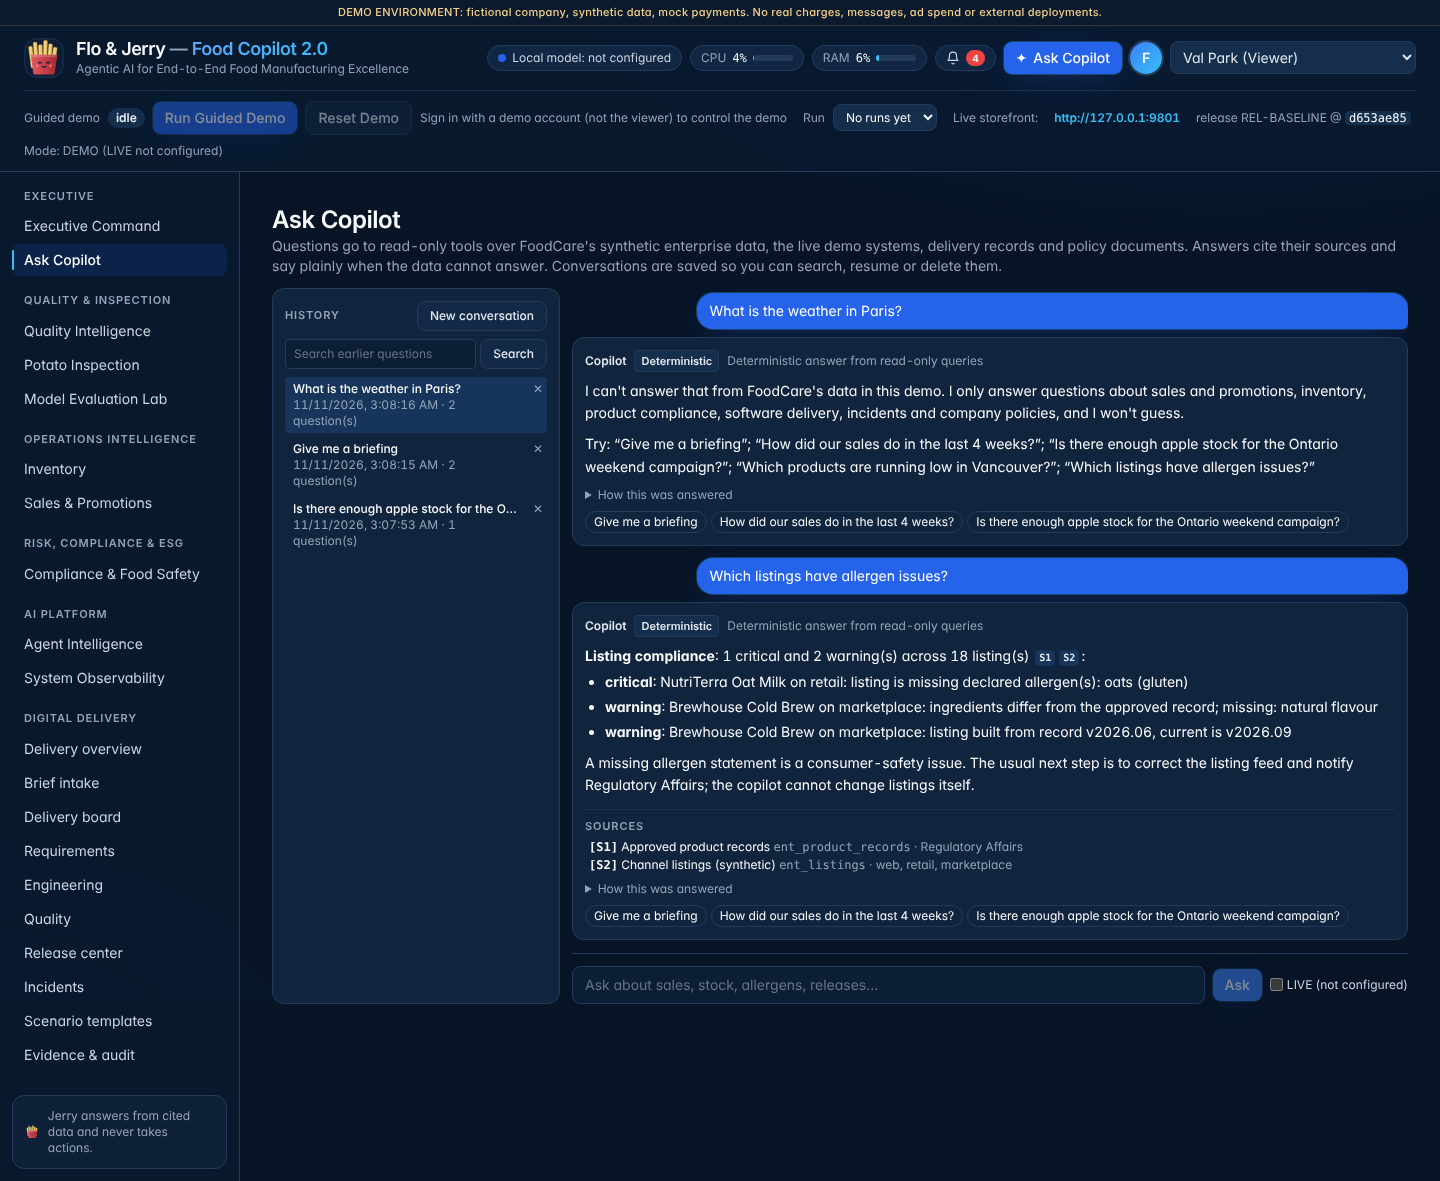
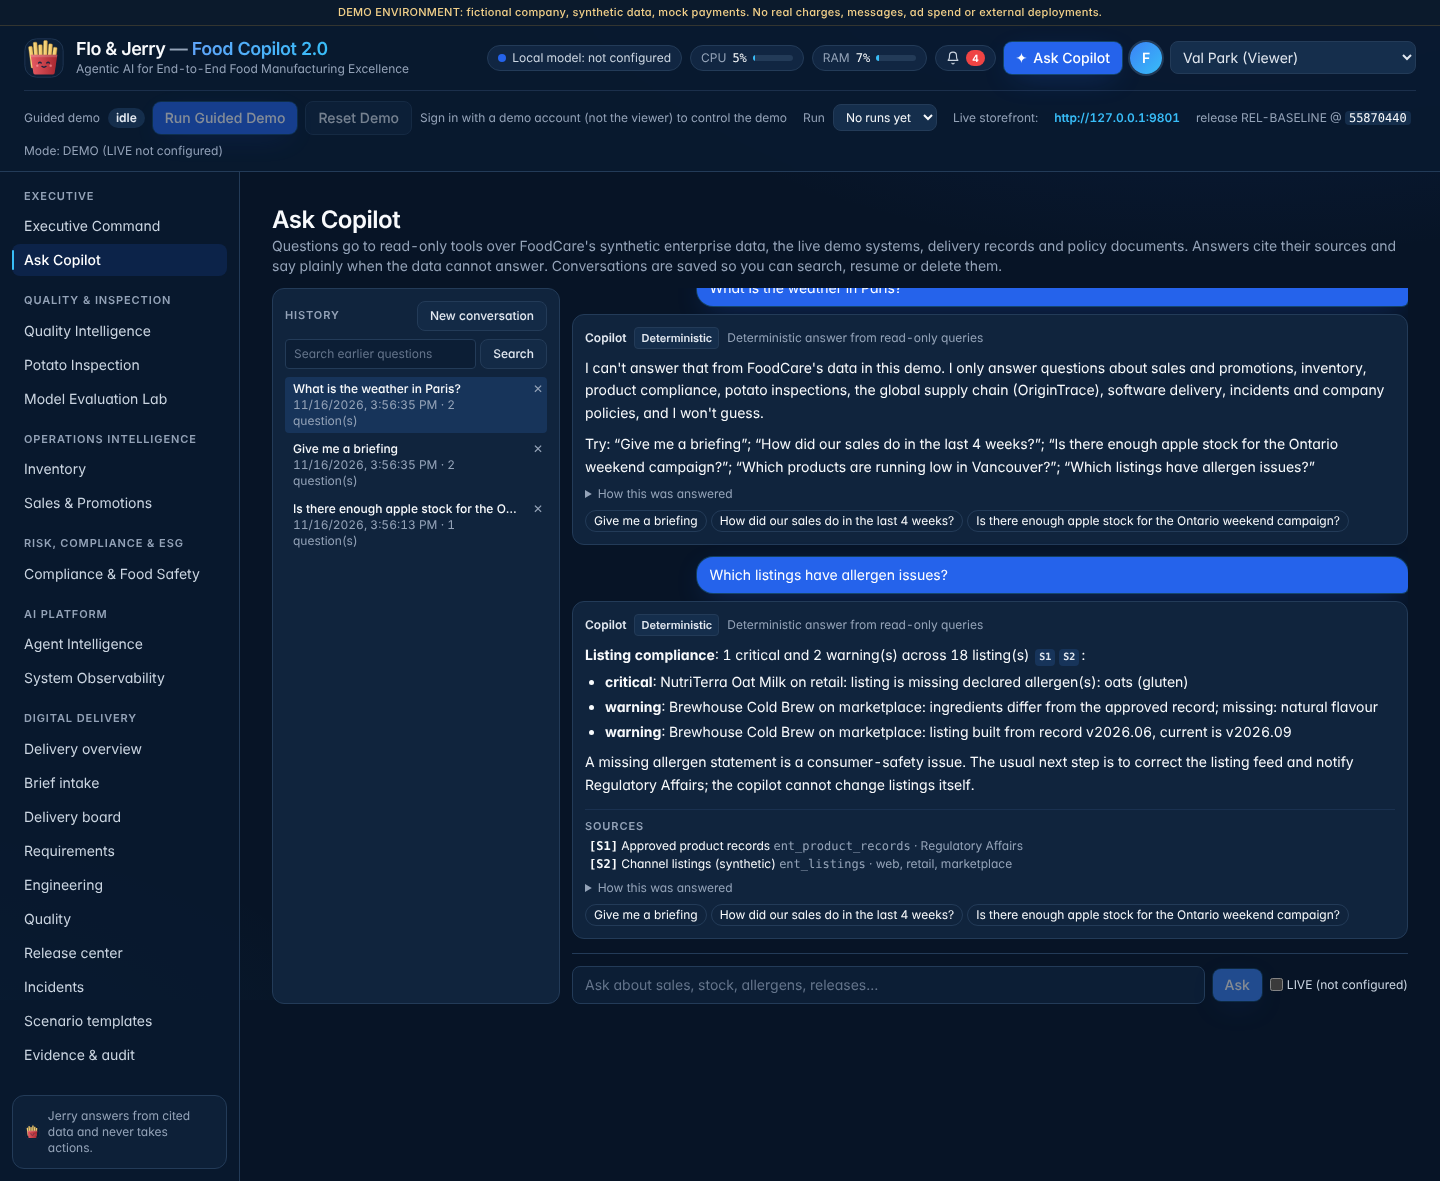
Windows fixes: guided demo deploys, copilot follow-ups after account switch, greetings
- Deploy: replace POSIX-only os.killpg / os.kill(pid, 0) / waitpid with a psutil-based
  check and process-tree stop on Windows (os.kill(pid, 0) is not a probe there);
  POSIX behaviour unchanged. Storefront starts in its own process group on Windows.
- Tool processes keep TEMP/TMP/PATHEXT/COMSPEC (needed on Windows; not credentials).
- .gitattributes keeps LF endings so Git for Windows does not break the demo patches.
- Copilot panel: a new conversation when the account changes, and automatic recovery
  when a saved conversation is gone, instead of "Conversation not found".
- "Hi" / "hello" / "thanks" get a friendly help answer; help and refusal text now list
  potato inspections and the global supply chain.
- Tests: test_portability.py (3).

Claude-Session: https://claude.ai/code/session_01XdtURoorP1VnLr6mpfiCqd

diff --git a/foodcare-copilot/apps/control-room/src/screens/Copilot.tsx b/foodcare-copilot/apps/control-room/src/screens/Copilot.tsx
@@ -129,6 +129,16 @@ export function Conversation({ pending, onConsumed, compact = false, resume, onS
   useEffect(() => { api("/api/copilot/examples").then((d) => setExamples(d.examples)).catch(() => undefined); }, []);
   useEffect(() => { end.current?.scrollIntoView({ block: "end" }); }, [turns]);
 
+  // A conversation belongs to one account: switching accounts starts a fresh one.
+  const lastUser = useRef(user?.username);
+  useEffect(() => {
+    if (lastUser.current !== user?.username) {
+      lastUser.current = user?.username;
+      setConversation(null);
+      setTurns([]);
+    }
+  }, [user?.username]);
+
   // Resume a saved conversation (or start a new one when id is null).
   useEffect(() => {
     if (!resume) return;
@@ -152,7 +162,14 @@ export function Conversation({ pending, onConsumed, compact = false, resume, onS
     const rid = `REQ-${Math.random().toString(36).slice(2, 12)}`;
     setRequestId(mode === "live" ? rid : null);
     try {
-      const a: Answer = await post("/api/copilot/ask", { question, conversation_id: conversation, mode, request_id: rid });
+      let a: Answer;
+      try {
+        a = await post("/api/copilot/ask", { question, conversation_id: conversation, mode, request_id: rid });
+      } catch (e) {
+        // The saved conversation was deleted, reset or belongs to another account: start a new one.
+        if (!conversation || !/conversation not found/i.test((e as Error).message)) throw e;
+        a = await post("/api/copilot/ask", { question, conversation_id: null, mode, request_id: rid });
+      }
       setConversation(a.conversation_id);
       onSaved?.(a.conversation_id);
       setTurns((t) => t.map((x, i) => (i === t.length - 1 ? { ...x, answer: a } : x)));

diff --git a/foodcare-copilot/backend/app/tools/deploy.py b/foodcare-copilot/backend/app/tools/deploy.py
@@ -30,15 +30,45 @@ def _pid_file() -> Path:
 
 
 def _alive(pid: int) -> bool:
+    """True while ``pid`` is our storefront process. Works on Windows, macOS and Linux.
+
+    (On Windows, ``os.kill(pid, 0)`` is not a harmless probe: it sends a console control
+    event, so psutil is used instead.)
+    """
+    import psutil
+
     try:
-        os.kill(pid, 0)
-    except (ProcessLookupError, PermissionError):
+        proc = psutil.Process(pid)
+        if proc.status() == psutil.STATUS_ZOMBIE:
+            return False
+        try:
+            return "storefront.main" in " ".join(proc.cmdline())
+        except (psutil.AccessDenied, psutil.ZombieProcess):
+            return True
+    except (psutil.NoSuchProcess, psutil.AccessDenied):
         return False
-    cmdline = Path(f"/proc/{pid}/cmdline")
-    if cmdline.exists():
-        text = cmdline.read_bytes().decode(errors="replace")
-        return "storefront.main" in text and "zombie" not in Path(f"/proc/{pid}/status").read_text()
-    return True
+
+
+def _signal_tree(pid: int, force: bool) -> None:
+    """Stop the storefront and anything it started (POSIX: its process group)."""
+    if os.name == "posix":
+        try:
+            os.killpg(pid, signal.SIGKILL if force else signal.SIGTERM)
+        except (ProcessLookupError, PermissionError):
+            pass
+        return
+    import psutil
+
+    try:
+        parent = psutil.Process(pid)
+        procs = parent.children(recursive=True) + [parent]
+    except psutil.NoSuchProcess:
+        return
+    for p in procs:
+        try:
+            p.kill() if force else p.terminate()
+        except psutil.NoSuchProcess:
+            pass
 
 
 def current_process() -> dict | None:
@@ -67,19 +97,17 @@ def stop_current(lifecycle: list[dict] | None = None) -> dict | None:
     if info is None:
         return None
     pid = info["pid"]
-    try:
-        os.killpg(pid, signal.SIGTERM)
-    except ProcessLookupError:
-        pass
+    _signal_tree(pid, force=False)
     deadline = time.time() + 8
     while time.time() < deadline and _alive(pid):
         time.sleep(0.1)
     if _alive(pid):
-        os.killpg(pid, signal.SIGKILL)
-    try:
-        os.waitpid(pid, os.WNOHANG)
-    except ChildProcessError:
-        pass
+        _signal_tree(pid, force=True)
+    if os.name == "posix":
+        try:
+            os.waitpid(pid, os.WNOHANG)
+        except ChildProcessError:
+            pass
     _pid_file().unlink(missing_ok=True)
     if lifecycle is not None:
         lifecycle.append({"ts": now_iso(), "event": "stopped", "pid": pid,
@@ -122,7 +150,8 @@ def _start(release_id: str, revision: str, deployment_id: str) -> tuple[int, Pat
             "--host", "127.0.0.1", "--port", str(settings.storefront_port), "--log-level", "warning"]
     with open(log_path, "ab") as log:
         proc = subprocess.Popen(argv, cwd=release_dir, env=env, stdout=log, stderr=subprocess.STDOUT,
-                                stdin=subprocess.DEVNULL, start_new_session=True)
+                                stdin=subprocess.DEVNULL, start_new_session=os.name == "posix",
+                                creationflags=getattr(subprocess, "CREATE_NEW_PROCESS_GROUP", 0))
     return proc.pid, log_path
 
 
@@ -163,10 +192,7 @@ def deploy(release_id: str, revision: str, actor: str, action: str) -> dict:
             lifecycle.append({"ts": now_iso(), "event": "health_check_passed", "revision": revision})
         else:
             lifecycle.append({"ts": now_iso(), "event": "health_check_failed", "detail": health_info})
-            try:
-                os.killpg(pid, signal.SIGKILL)
-            except ProcessLookupError:
-                pass
+            _signal_tree(pid, force=True)
     with session() as conn:
         conn.execute(
             "UPDATE deployments SET pid = ?, status = ?, finished_at = ?, health_json = ?, log_path = ?,"

diff --git a/foodcare-copilot/backend/app/copilot/engine.py b/foodcare-copilot/backend/app/copilot/engine.py
@@ -23,6 +23,7 @@ from pydantic import BaseModel, Field
 from app import graphs
 from app.auth import User
 from app.config import get_settings
+from app.copilot import router
 from app.copilot.router import Parsed, parse
 from app.db import kv_get, new_id, now_iso, row, rows
 from app.enterprise import queries as q
@@ -424,8 +425,11 @@ def h_inspection(p: Parsed, c: Ctx) -> list[str]:
 
 
 def h_help(p: Parsed, c: Ctx) -> list[str]:
-    return ["I answer read-only questions about FoodCare's **sales and promotions**, **inventory**, **product "
-            "compliance**, **software delivery** (runs, tests, releases), **incidents** and **company policies**. I "
+    hello = "Hi! I'm Jerry, FoodCare's read-only copilot. " if router.GREETING.match(p.question) else ""
+    return [hello + "I answer read-only questions about FoodCare's **sales and promotions**, **inventory**, "
+            "**product compliance**, **potato inspections**, the **global supply chain** (OriginTrace: trace a site "
+            "or incident back to the farm), **software delivery** (runs, tests, releases), **incidents** and "
+            "**company policies**. I "
             "cite the data or document behind every figure. I can't take actions: approvals, deployments and fault "
             "controls stay in the workflow screens, under role permissions.",
             "Try: " + "; ".join(f"“{e}”" for e in EXAMPLES[:6])]
@@ -639,8 +643,8 @@ def ask(question: str, user: User, conversation_id: str | None = None, mode: str
     answered = bool(paragraphs)
     if not answered:
         paragraphs = ["I can't answer that from FoodCare's data in this demo. I only answer questions about sales "
-                      "and promotions, inventory, product compliance, software delivery, incidents and company "
-                      "policies, and I won't guess.",
+                      "and promotions, inventory, product compliance, potato inspections, the global supply chain "
+                      "(OriginTrace), software delivery, incidents and company policies, and I won't guess.",
                       "Try: " + "; ".join(f"“{e}”" for e in EXAMPLES[:5])]
     answer_mode, provenance, notice, usage = "demo", "deterministic", None, None
     live_answers = int(previous.get("live_answers", 0))

diff --git a/foodcare-copilot/backend/tests/test_portability.py b/foodcare-copilot/backend/tests/test_portability.py
@@ -1,0 +1,51 @@
+"""Cross-platform process handling and small copilot UX rules."""
+
+from __future__ import annotations
+
+import os
+import subprocess
+import sys
+import time
+
+import psutil
+
+from app.copilot import engine, router
+from app.tools import deploy
+
+from conftest import user
+
+
+def test_alive_is_a_pure_check_and_only_recognises_the_storefront():
+    # A process that is not the storefront is reported as not ours, and is left running.
+    proc = subprocess.Popen([sys.executable, "-c", "import time; time.sleep(30)"])
+    try:
+        assert deploy._alive(proc.pid) is False
+        assert proc.poll() is None  # the check did not signal or kill it
+        assert deploy._alive(os.getpid()) is False
+    finally:
+        proc.kill()
+        proc.wait()
+    assert deploy._alive(proc.pid) is False  # gone
+
+
+def test_stop_tree_stops_a_process_and_its_children():
+    code = ("import subprocess,sys,time; "
+            "subprocess.Popen([sys.executable,'-c','import time; time.sleep(30)']); time.sleep(30)")
+    proc = subprocess.Popen([sys.executable, "-c", code], start_new_session=os.name == "posix")
+    for _ in range(50):
+        if psutil.Process(proc.pid).children():
+            break
+        time.sleep(0.05)
+    kids = psutil.Process(proc.pid).children(recursive=True)
+    deploy._signal_tree(proc.pid, force=True)
+    proc.wait(timeout=5)
+    gone, alive = psutil.wait_procs(kids, timeout=5)
+    assert not alive
+
+
+def test_greeting_gets_a_friendly_help_answer(platform):
+    assert router.parse("Hi").intents == ["help"]
+    assert router.parse("Hi, how did our sales do in the last 4 weeks?").intents == ["sales"]
+    answer = engine.ask("Hi", user("val.viewer"))
+    assert answer["answer"].startswith("Hi! I'm Jerry") and "global supply chain" in answer["answer"]
+    assert "can't answer" not in answer["answer"]

diff --git a/foodcare-copilot/backend/app/copilot/router.py b/foodcare-copilot/backend/app/copilot/router.py
@@ -25,6 +25,9 @@ WAREHOUSES = {"toronto": "DC-TOR", "montreal": "DC-MTL", "montréal": "DC-MTL", 
 CHANNELS = {"retail": "retail", "grocery": "retail", "marketplace": "marketplace", "web store": "web",
             "online store": "web", "webstore": "web", "website": "web", "e-commerce": "web"}
 
+GREETING = re.compile(r"^\s*(hi|hello|hey|hiya|good (morning|afternoon|evening)|thanks|thank you|yo)\b[\s!.,?]*"
+                      r"(jerry|copilot|there)?[\s!.,?]*$", re.IGNORECASE)
+
 INTENTS: dict[str, tuple[str, ...]] = {
     "sales": ("sales", "sell", "revenue", "selling", "sold", "units", "trend", "top product", "best seller",
               "bestseller", "best-selling", "turnover", "growth"),
@@ -117,6 +120,8 @@ def parse(question: str) -> Parsed:
         ranked = ["inventory"]
     elif not ranked and (skus or provinces or channels) and _has(text, "low"):
         ranked = ["inventory"]
+    if not ranked and GREETING.match(question):
+        ranked = ["help"]
     if "help" in ranked and len(ranked) > 1:
         ranked.remove("help")
     if len(ranked) > 1 and scores[ranked[1]] < scores[ranked[0]]:

diff --git a/foodcare-copilot/backend/app/tools/runner.py b/foodcare-copilot/backend/app/tools/runner.py
@@ -22,7 +22,8 @@ from pathlib import Path
 from app.config import get_settings
 from app.errors import ToolRejected
 
-SAFE_ENV_KEYS = ("PATH", "LANG", "LC_ALL", "TZ", "SYSTEMROOT")
+# SYSTEMROOT, TEMP/TMP, PATHEXT and COMSPEC are needed by Windows processes; none holds credentials.
+SAFE_ENV_KEYS = ("PATH", "LANG", "LC_ALL", "TZ", "SYSTEMROOT", "TEMP", "TMP", "PATHEXT", "COMSPEC")
 
 
 @dataclass
